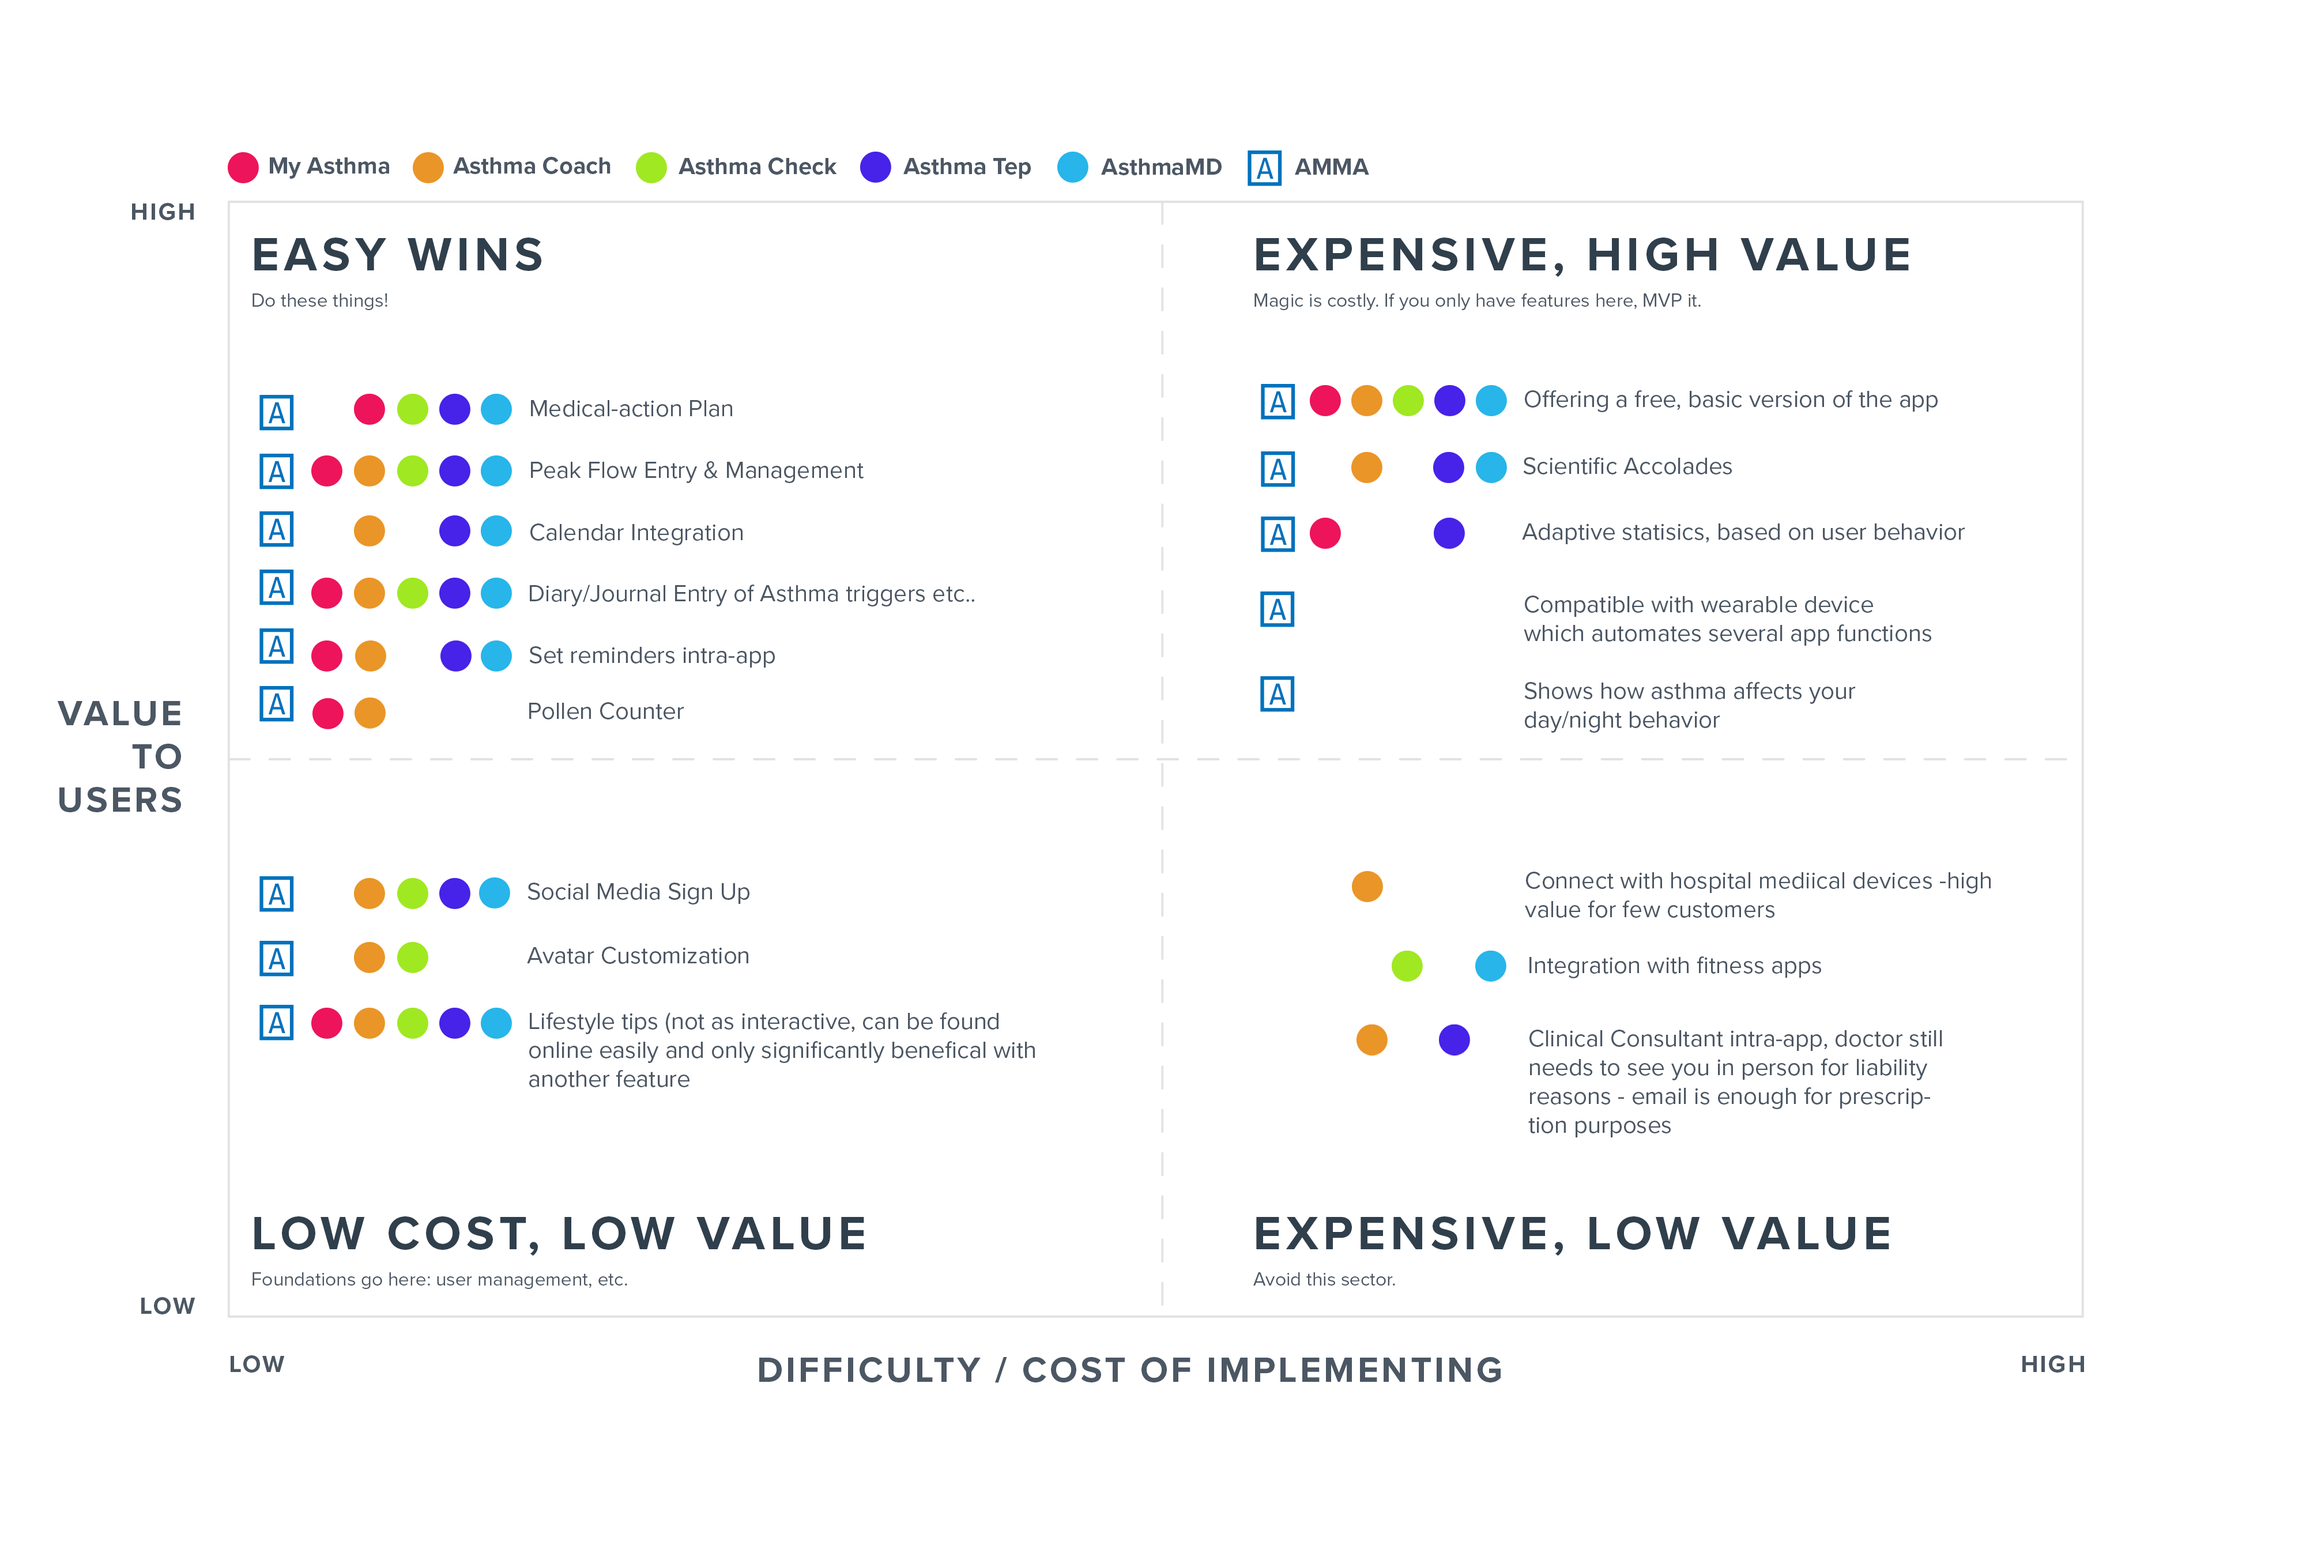
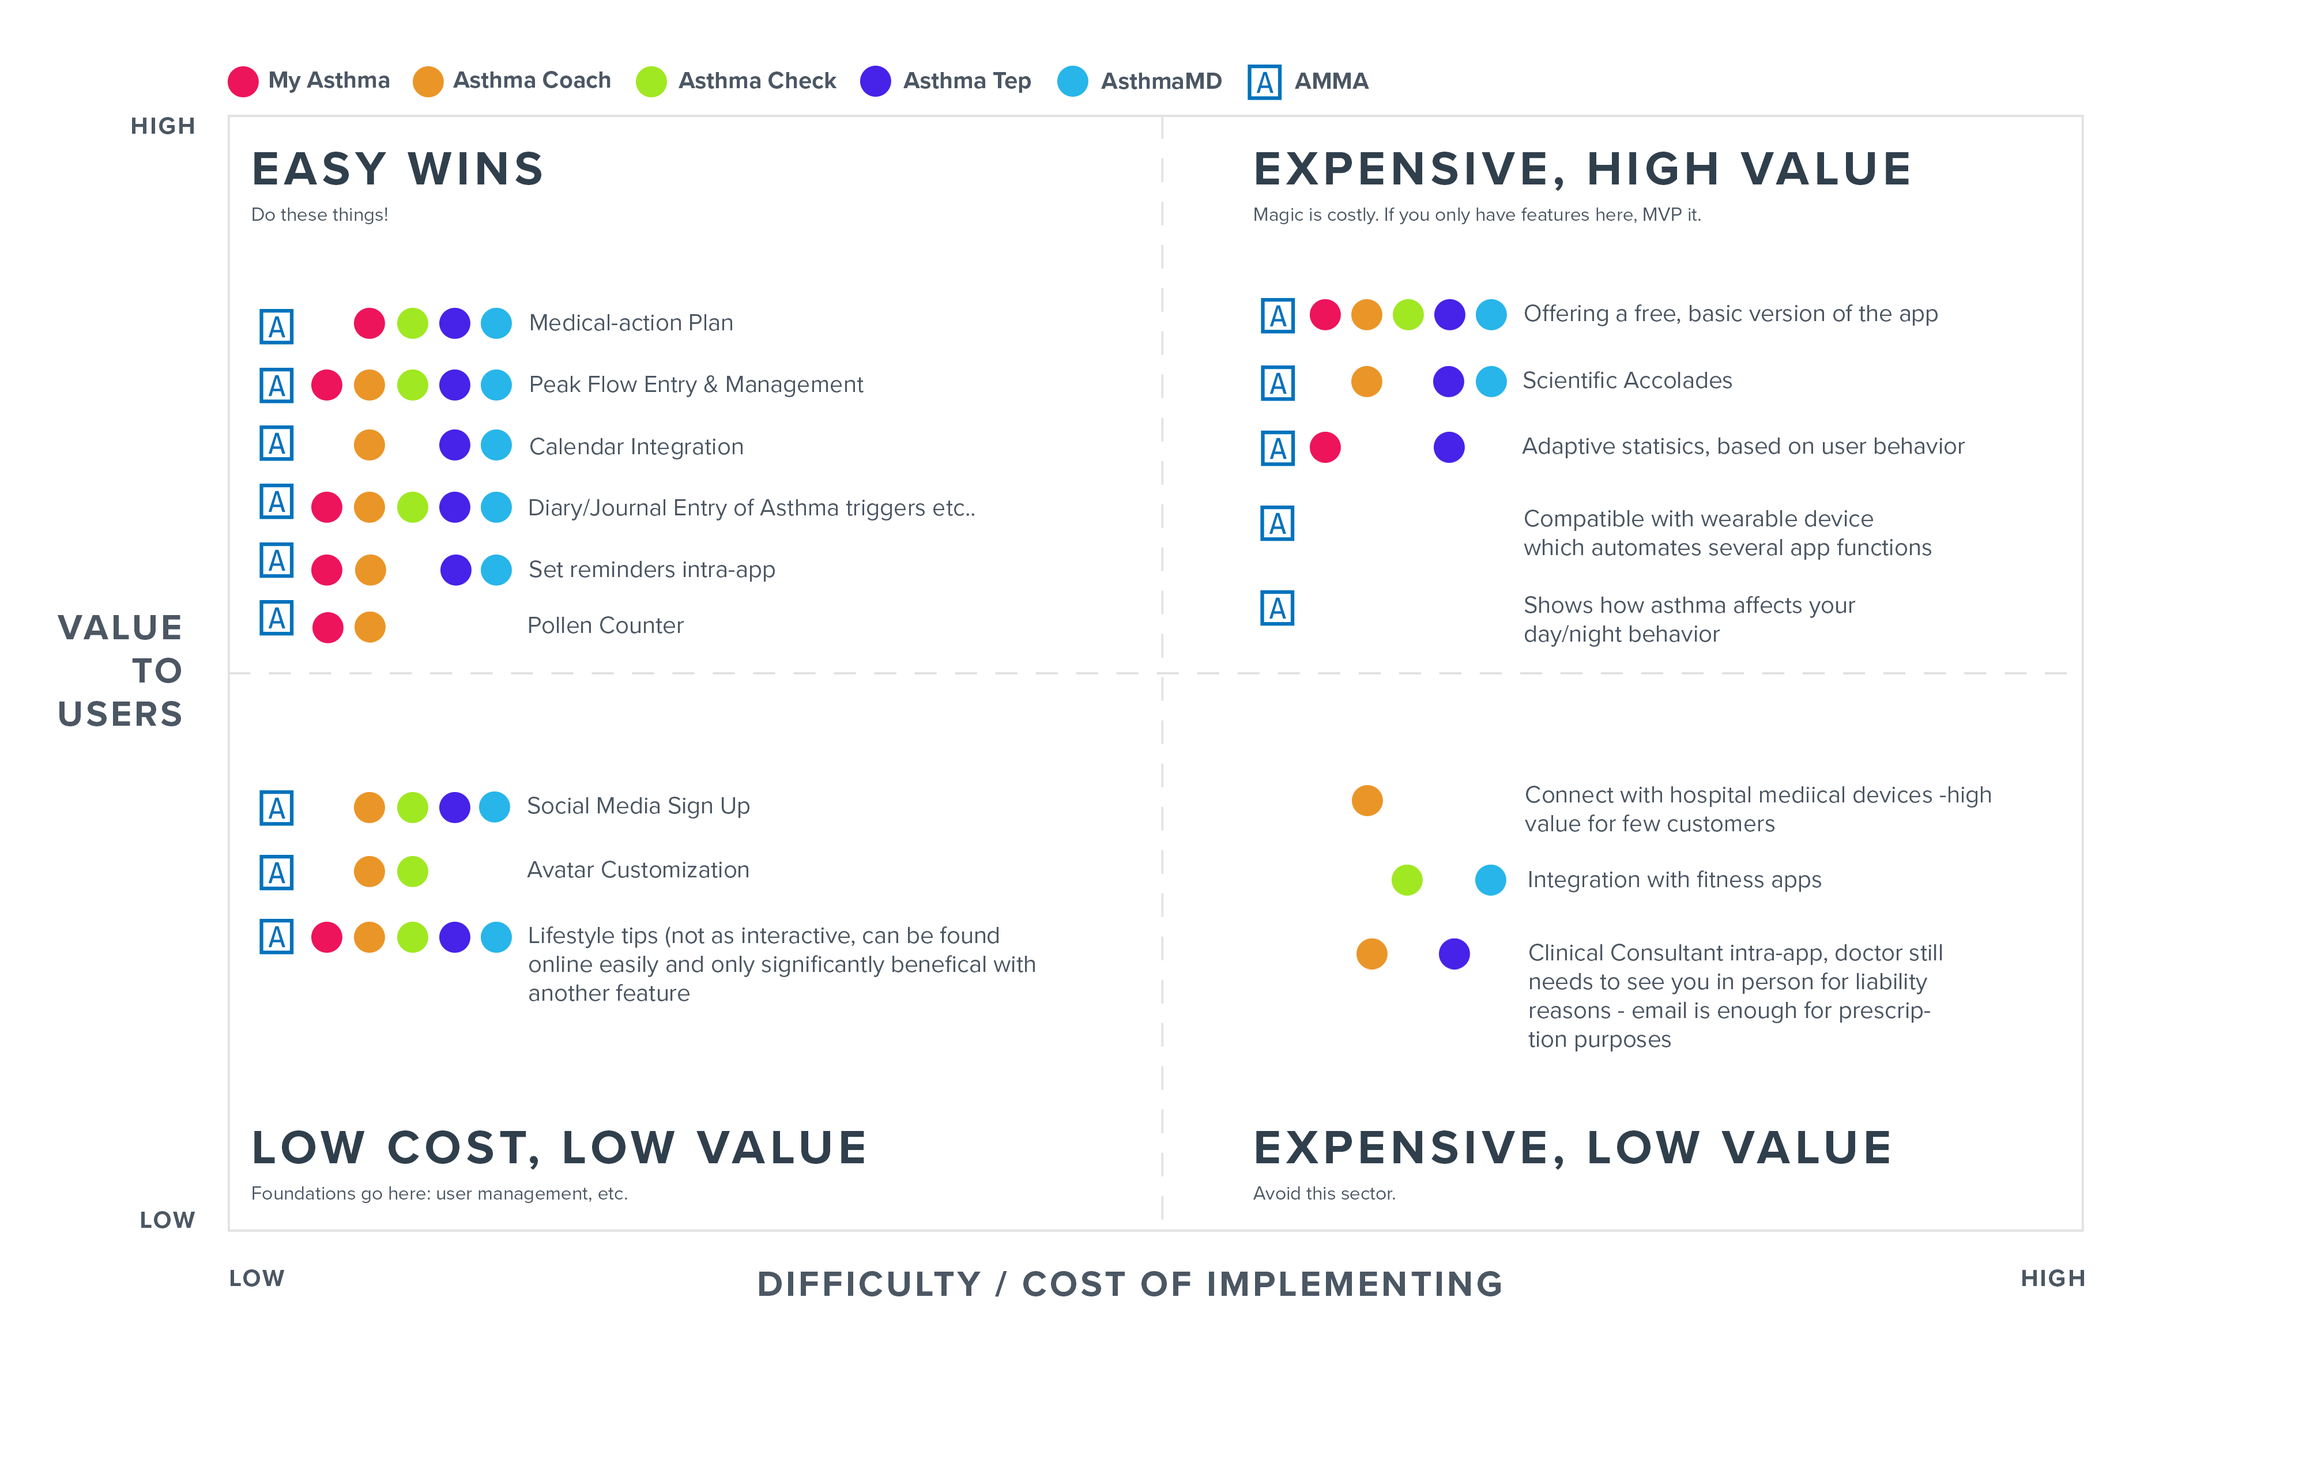
wip amma

diff --git a/stylesheets/screen.css b/stylesheets/screen.css
@@ -568,7 +568,7 @@ AMMA
 
 /* line 402, ../sass/screen.scss */
 #amma-app-map {
-  margin-bottom: -80px;
+  margin-bottom: -70px;
 }
 @media only screen and (min-width: 768px) {
   /* line 402, ../sass/screen.scss */
@@ -580,7 +580,7 @@ AMMA
 
 /* line 409, ../sass/screen.scss */
 #amma-feature-matrix-title {
-  margin-top: 5%;
+  margin-top: 10px;
 }
 
 @media only screen and (min-width: 768px) {

diff --git a/sass/screen.scss b/sass/screen.scss
@@ -404,10 +404,10 @@ AMMA
     max-width: 55%;
     padding-right: 2%;
   }
-  margin-bottom: -80px;
+  margin-bottom: -70px;
 }
 #amma-feature-matrix-title {
-  margin-top: 5%;
+  margin-top: 10px;
 }
 #amma-feature-matrix {
   @include MQ(M) {
